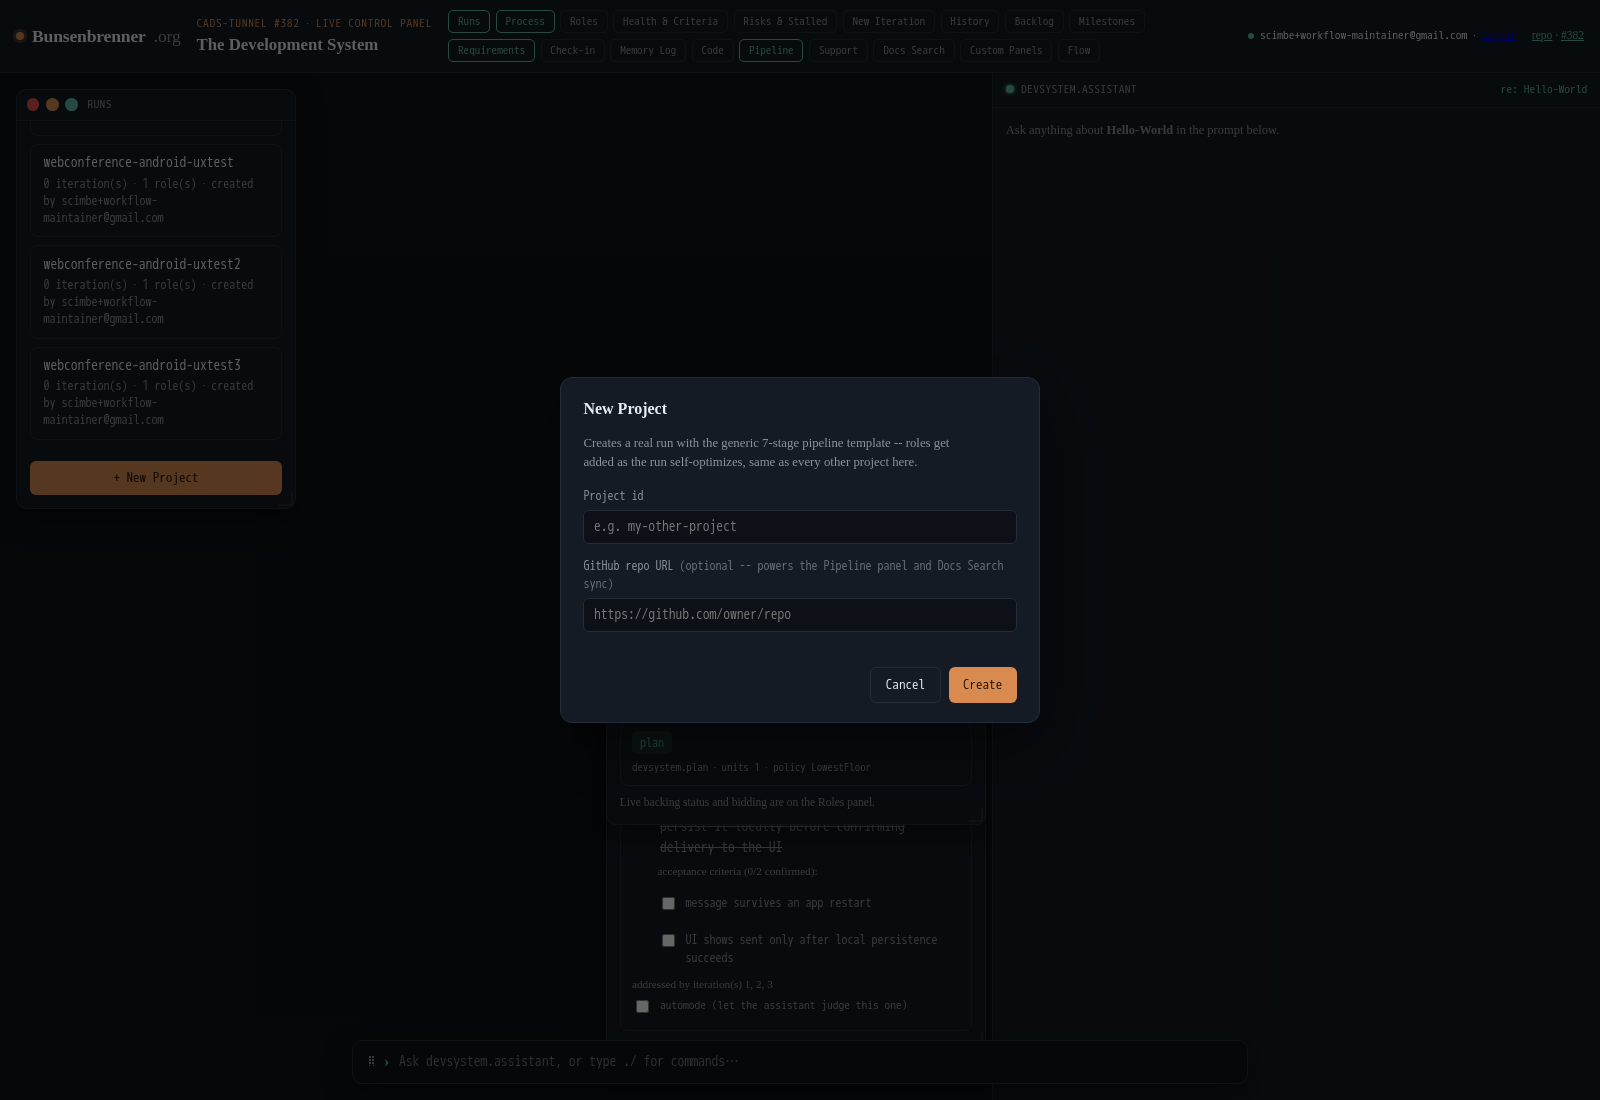
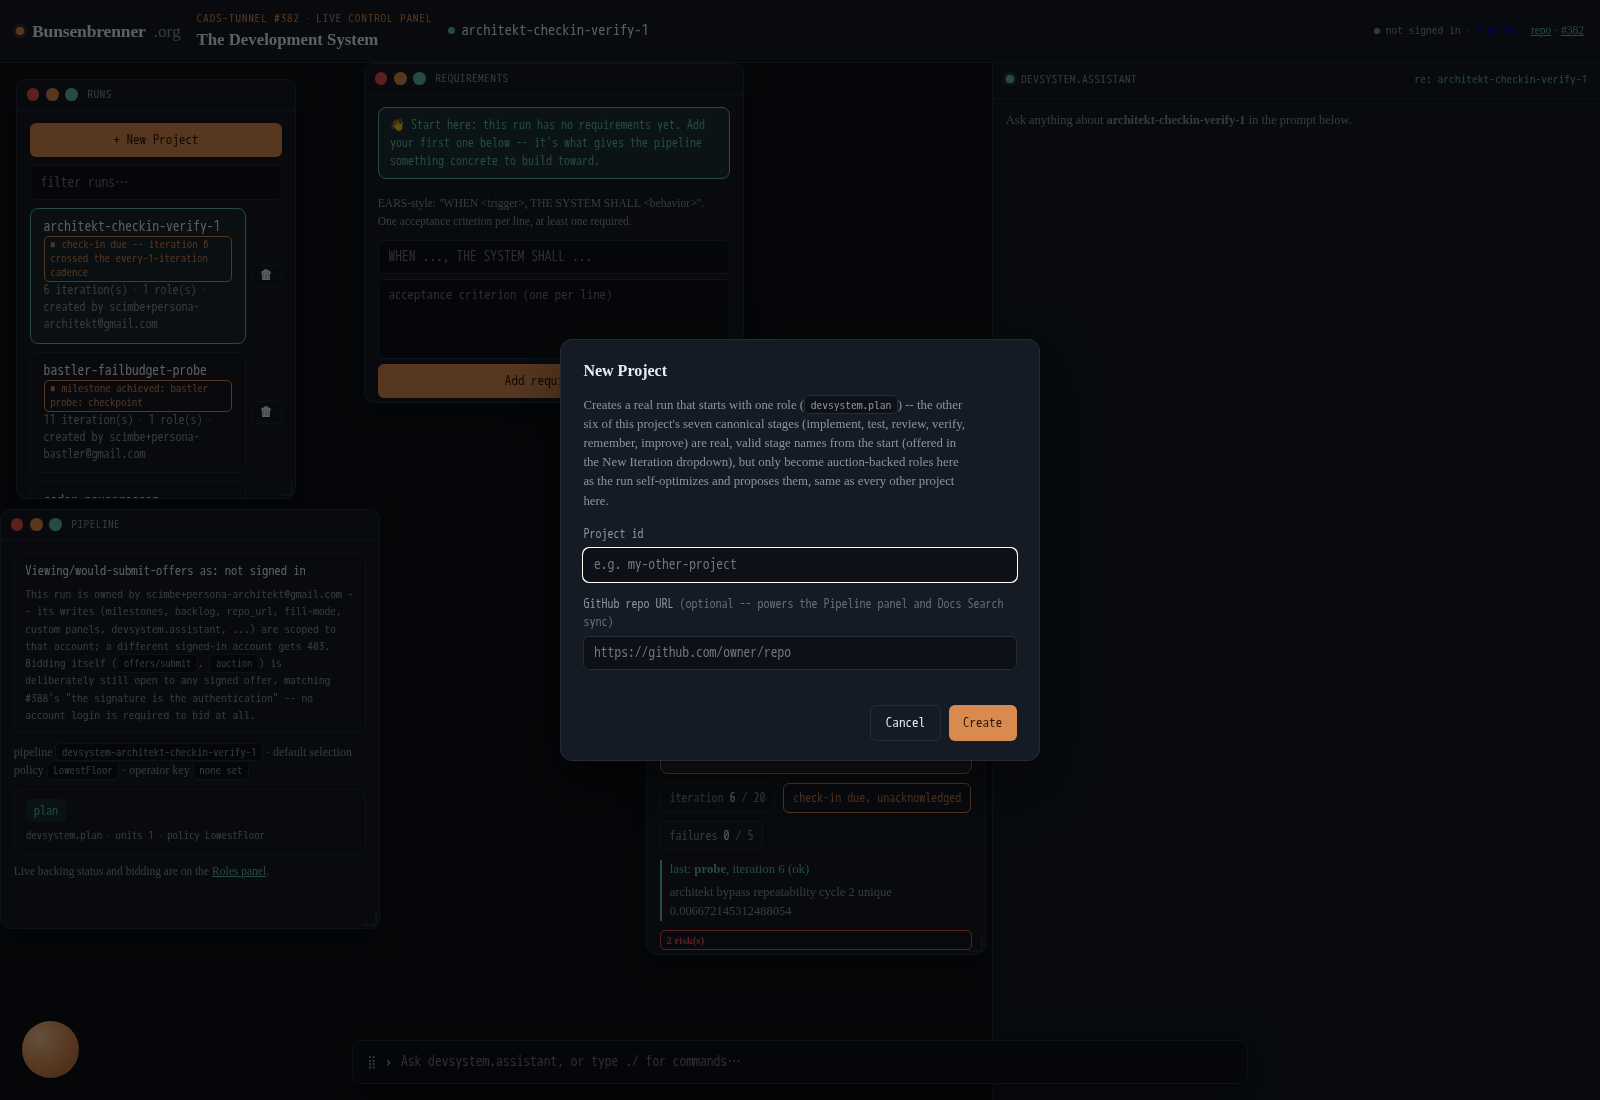
tutorial: refresh stale New Project dialog screenshots (issue #51)
All three screenshots (02, 03, 09) showed the dialog's old, misleading
copy -- "creates a real run with the generic 7-stage pipeline template"
-- fixed in CADS-devsystem@8c884c3 after a real evaluator read that as
"all seven stages are already set up" and couldn't find six of them
anywhere. Recaptured via a real headless-browser walkthrough (Playwright)
against the live local deployment at the exact original viewport
dimensions (1600x1100 for 02/03, 1280x900 for 09), so composition and
crop match the surrounding prose. Added a short note pointing at the real
fix and cross-linking the New Iteration dropdown's own now-honest
behavior (all seven canonical stages offered, not just plan).

Claude-Session: https://claude.ai/code/session_018FkngvdKnmVcAT84EZe7Ur

diff --git a/_tutorials/first-run.md b/_tutorials/first-run.md
@@ -46,6 +46,18 @@ Submitting creates a genuinely empty run — a plan-only `PipelineSpec`, no hist
 enters the live spec later, through a real `StageProposal` a role-filler raises for itself once it's
 actually needed — not pre-declared up front.
 
+**The dialog's own copy above says this now too, 2026-08-07** — it used to read "creates a real run
+with the generic 7-stage pipeline template," which a real evaluator (re-verifying [the `stage`
+validation work]({{ '/how-to/submit-an-iteration/' | relative_url }}#stage-itself-is-validated-now-too-2026-08-07))
+read as "all seven stages are already set up," then couldn't find six of them anywhere
+([issue #51](https://github.com/scimbe/CADS-devsystem/issues/51)). Only `plan` is a real role at
+creation — but the other six real, canonical stage names aren't hidden either: the New Iteration
+panel's stage dropdown offers all seven from the start (grouped: this run's actual live roles,
+separately from the other six canonical names that are valid but not yet auction-backed here), so
+recording work under `devsystem.implement` or `devsystem.review` never requires hand-typing it —
+see [Bid for a role and submit a real iteration]({{ '/how-to/submit-an-iteration/' | relative_url }})
+for that panel in action.
+
 <figure>
 <img src="{{ '/assets/img/tutorial-first-run/04-run-created.png' | relative_url }}" alt="The newly created run selected, showing an empty pipeline state">
 </figure>
